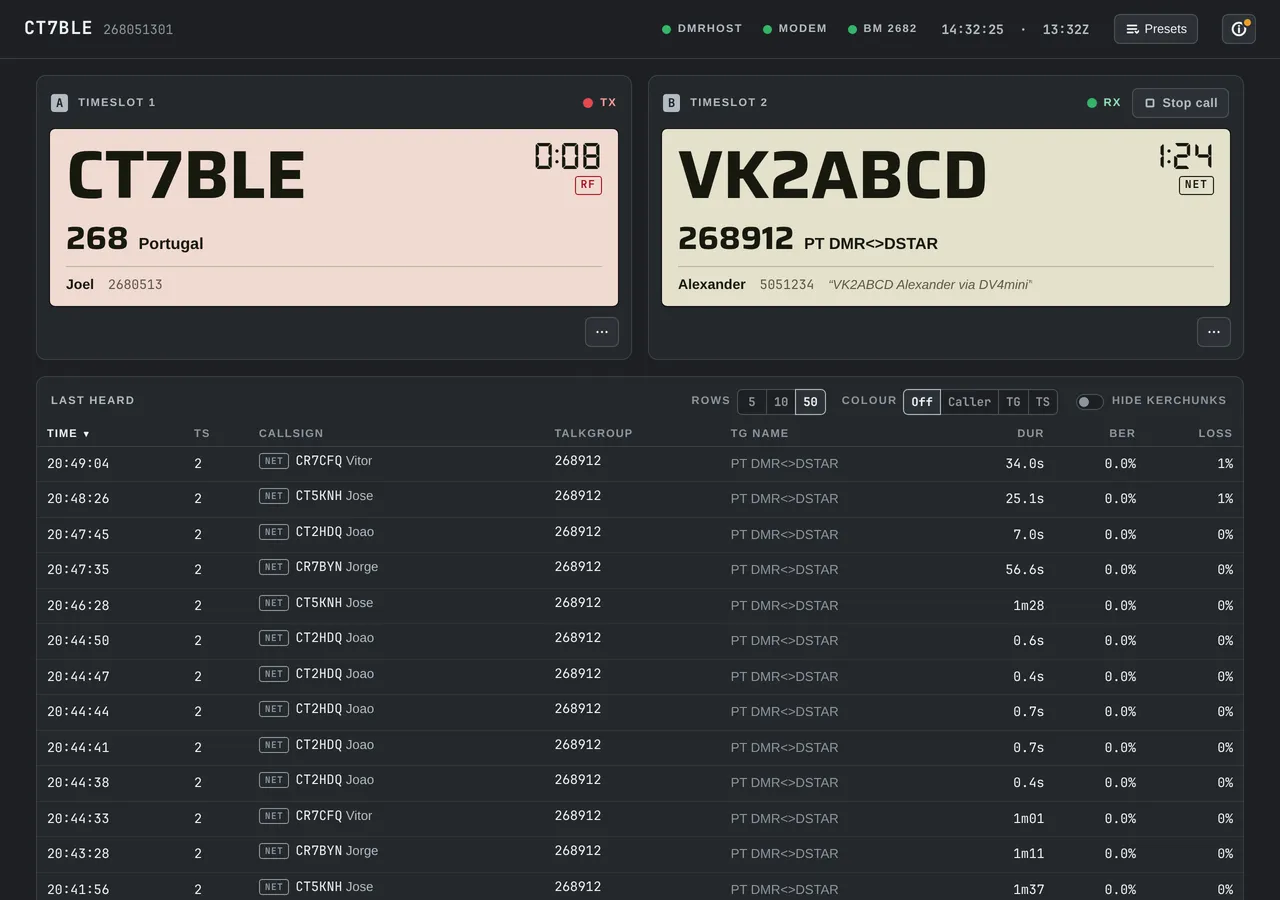
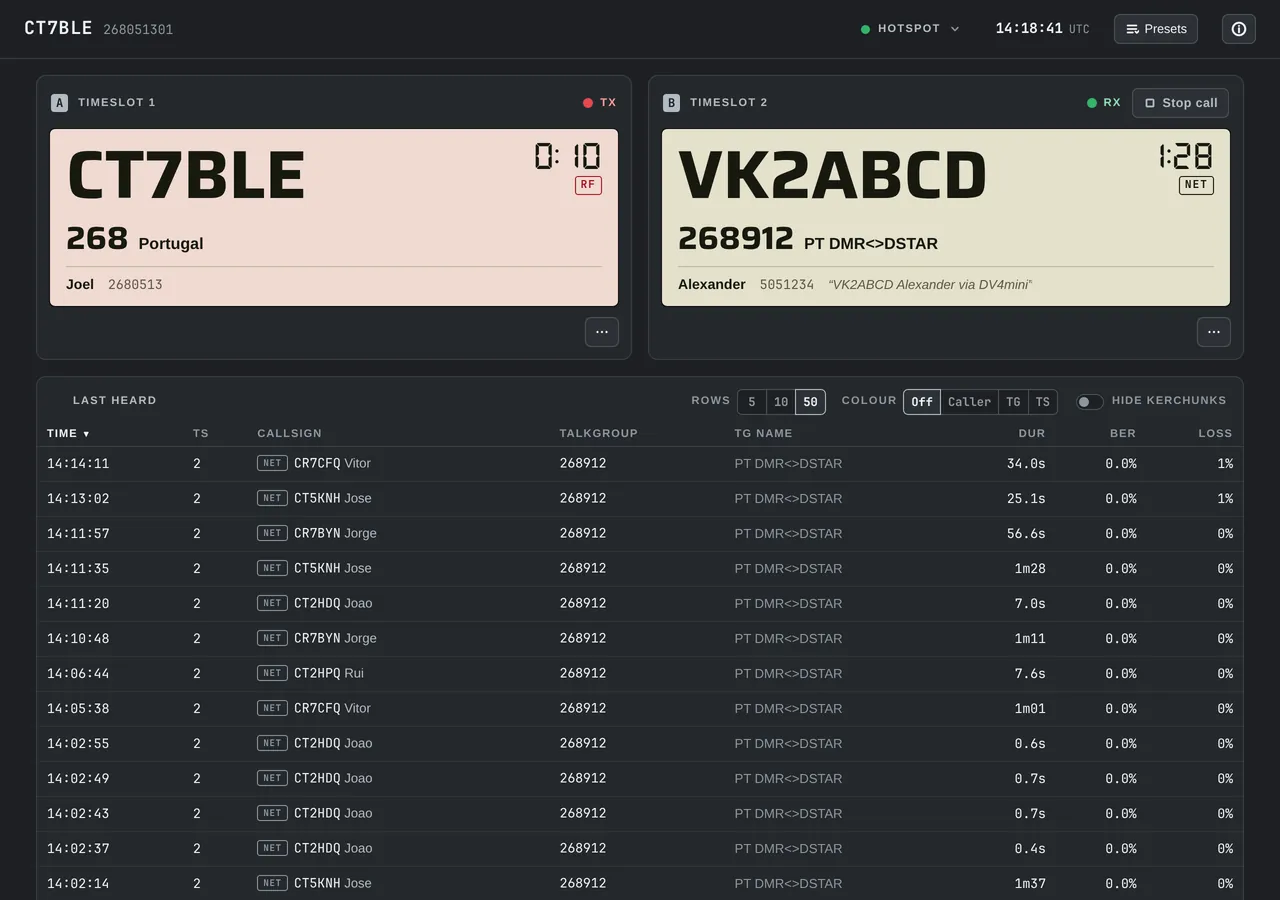
How it works: format and write the card, then the wizard on the same computer
Step 1 says Imager formats the card as it writes Raspberry Pi OS Lite
(64-bit), with Skip customisation because the wizard sets the name, user
and Wi-Fi. Step 2 runs the wizard once Imager has finished, on the same
computer with the card in (back in, if Imager ejected it), and says
installing dmrdash is a choice.

The dashboard screenshots show dmrdash 1.5: one status light and a single
clock. The tour's callouts follow them, and callout 1 says "status light".

diff --git a/index.html b/index.html
@@ -108,15 +108,15 @@
         <li class="module step">
           <span class="step-n" aria-hidden="true">1</span>
           <div class="step-body">
-            <h3>Write Raspberry Pi OS to the card</h3>
-            <p>With the free <a href="https://www.raspberrypi.com/software/">Raspberry Pi Imager</a>. Pick <em>Raspberry Pi OS Lite (64-bit)</em> and click <em>Skip customisation</em>.</p>
+            <h3>Format the card and write Raspberry Pi OS</h3>
+            <p>Put an SD card in your computer and open the free <a href="https://www.raspberrypi.com/software/">Raspberry Pi Imager</a>. Pick <em>Raspberry Pi OS Lite (64-bit)</em>, then click <em>Skip customisation</em>: don’t set a name, user or Wi-Fi there, because the wizard does that. Imager formats the card as it writes.</p>
           </div>
         </li>
         <li class="module step">
           <span class="step-n" aria-hidden="true">2</span>
           <div class="step-body">
-            <h3>Fill in the wizard</h3>
-            <p>Provide your callsign, Wi-Fi details, hat type, and frequencies. It opens in your browser and explains each field. You can fill it in while Imager writes the card.</p>
+            <h3>Run the wizard on the same computer</h3>
+            <p>When Imager has finished, open the wizard with the card still in your computer. If Imager ejected it, take it out and put it back in. Give your callsign, Wi-Fi, hat and frequencies, and the wizard sets up DMRHost on the card. Installing the dmrdash dashboard is your choice.</p>
           </div>
         </li>
         <li class="module step">
@@ -127,7 +127,7 @@
             <ol class="log">
               <li><span class="ok">OK</span><span>Installs BrandMeister DMRHost</span></li>
               <li><span class="ok">OK</span><span>Sets up your hat, frequencies and OLED</span></li>
-              <li><span class="ok">OK</span><span>Installs the dmrdash dashboard</span></li>
+              <li><span class="ok">OK</span><span>Installs the dmrdash dashboard, if you chose it</span></li>
               <li><span class="ok">OK</span><span>Wipes your passwords off the card</span></li>
               <li class="air"><span class="ok">ON AIR</span><span>The OLED lights up. You’re on BrandMeister.</span></li>
             </ol>
@@ -146,16 +146,16 @@
         <p>Once it is running, open <code>http://&lt;hotspot name&gt;.local:8080</code> on any phone or computer on your network.</p>
       </div>
       <div class="tour">
-        <img src="assets/dmrdash-desktop.webp" srcset="assets/dmrdash-desktop-1280.webp 1280w, assets/dmrdash-desktop.webp 2560w" sizes="(max-width: 1040px) 100vw, 992px" width="2560" height="1800" loading="lazy" alt="The dmrdash dashboard shows status lights, timeslot 1 transmitting, timeslot 2 receiving, and the last heard list.">
-        <span class="pin" style="left:49.6%; top:3.2%" aria-hidden="true">1</span>
+        <img src="assets/dmrdash-desktop.webp" srcset="assets/dmrdash-desktop-1280.webp 1280w, assets/dmrdash-desktop.webp 2560w" sizes="(max-width: 1040px) 100vw, 992px" width="2560" height="1800" loading="lazy" alt="The dmrdash dashboard shows the hotspot status light, timeslot 1 transmitting, timeslot 2 receiving, and the last heard list.">
+        <span class="pin" style="left:63.4%; top:3.2%" aria-hidden="true">1</span>
         <span class="pin" style="left:26.5%; top:19.5%" aria-hidden="true">2</span>
         <span class="pin" style="left:19.5%; top:26.6%" aria-hidden="true">3</span>
         <span class="pin" style="left:86.5%; top:11.4%" aria-hidden="true">4</span>
         <span class="pin" style="left:44.8%; top:36.8%" aria-hidden="true">5</span>
-        <span class="pin" style="left:13.8%; top:44.4%" aria-hidden="true">6</span>
+        <span class="pin" style="left:16%; top:44.4%" aria-hidden="true">6</span>
       </div>
       <ol class="tour-key">
-        <li><span class="pin-key" aria-hidden="true">1</span><span><strong>Status lights.</strong> <span class="muted">Check your hotspot software, radio board and BrandMeister link. Green is good.</span></span></li>
+        <li><span class="pin-key" aria-hidden="true">1</span><span><strong>Status light.</strong> <span class="muted">One light for your hotspot software, radio board and BrandMeister link. Green is good. Tap it for the details and controls.</span></span></li>
         <li><span class="pin-key" aria-hidden="true">2</span><span><strong>Who is talking.</strong> <span class="muted">The panel turns red when you transmit, and cream when it is someone else.</span></span></li>
         <li><span class="pin-key" aria-hidden="true">3</span><span><strong>Where.</strong> <span class="muted">See the talkgroup and its name, with the speaker’s name below.</span></span></li>
         <li><span class="pin-key" aria-hidden="true">4</span><span><strong>Stop call.</strong> <span class="muted">Cut off a conversation you do not want to hear on your hotspot.</span></span></li>
